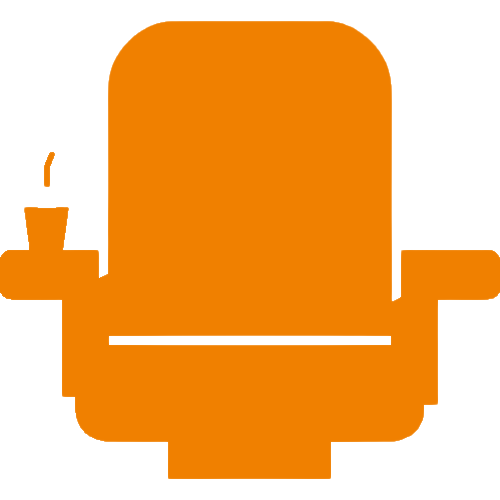
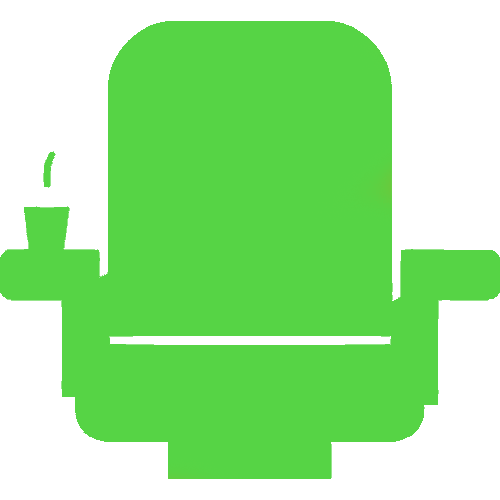
ajustes de diseño

diff --git a/src/screens/SeatSelectionScreen.tsx b/src/screens/SeatSelectionScreen.tsx
@@ -93,8 +93,8 @@ const SeatSelectionScreen: React.FC<Props> = ({ route, navigation }) => {
                   seat.estadoAsiento === 'ocupado' 
                     ? require('../assets/asientoRojo.png') 
                     : selectedSeats.includes(`${seat.filaAsiento}-${seat.numeroAsiento}`)
-                      ? require('../assets/asientoAnaranjado.png') 
-                      : require('../assets/asientoBlanco.png')
+                      ? require('../assets/asientoBlanco.png') 
+                      : require('../assets/asientoAnaranjado.png')
                 }
                 style={styles.seatImage}
               />
@@ -111,11 +111,11 @@ const SeatSelectionScreen: React.FC<Props> = ({ route, navigation }) => {
           <Text style={styles.legendText}>Apartado</Text>
         </View>
         <View style={styles.legendItem}>
-          <Image source={require('../assets/asientoAnaranjado.png')} style={styles.legendImage} />
+          <Image source={require('../assets/asientoBlanco.png')} style={styles.legendImage} />
           <Text style={styles.legendText}>Seleccionado</Text>
         </View>
         <View style={styles.legendItem}>
-          <Image source={require('../assets/asientoBlanco.png')} style={styles.legendImage} />
+          <Image source={require('../assets/asientoAnaranjado.png')} style={styles.legendImage} />
           <Text style={styles.legendText}>Disponible</Text>
         </View>
       </View>
@@ -214,7 +214,7 @@ const styles = StyleSheet.create({
   selectedSeatsText: {
     fontSize: 16,
     color: '#FFFFFF',
-    marginTop: 20,
+    marginTop: 80,
   },
   selectedSeatsList: {
     fontSize: 16,

diff --git a/src/screens/DulceriaScreen.tsx b/src/screens/DulceriaScreen.tsx
@@ -51,9 +51,9 @@ const DulceriaScreen = () => {
       <Image source={item.image} style={styles.productImage} />
       <Text style={styles.productName}>{item.name}</Text>
       <Text style={styles.productPrice}>${item.price}</Text>
-      <TouchableOpacity style={styles.addButton}>
+      {/* <TouchableOpacity style={styles.addButton}>
         <Text style={styles.addButtonText}>Añadir al carrito</Text>
-      </TouchableOpacity>
+      </TouchableOpacity>*/} 
     </View>
   );
 
@@ -78,6 +78,7 @@ const DulceriaScreen = () => {
         columnWrapperStyle={styles.row} // Estilo para la fila
         contentContainerStyle={styles.productsContainer}
       />
+      <Text style={styles.title}>¡¡¡Próximamente venta en la aplicación!!!</Text>
     </View>
   );
 };

diff --git a/src/screens/admin/AdminWelcomeScreen.tsx b/src/screens/admin/AdminWelcomeScreen.tsx
@@ -82,7 +82,6 @@ const AdminWelcomeScreen: React.FC<Props> = ({route}) => {
   return (
     <View style={styles.container}>
       <Text style={styles.welcomeText}>Bienvenido, {adminName}</Text>
-      <Text style={styles.subtitle}>Panel de Administración</Text>
 
       <View style={styles.buttonContainer}>
         <TouchableOpacity
@@ -136,7 +135,7 @@ const styles = StyleSheet.create({
     fontSize: 28,
     fontWeight: 'bold',
     color: '#FFFFFF',
-    marginBottom: 20,
+    marginBottom: 70,
     textAlign: 'center',
   },
   subtitle: {

diff --git a/src/screens/HomeScreen.tsx b/src/screens/HomeScreen.tsx
@@ -86,7 +86,6 @@ const HomeScreen: React.FC<Props> = ({ navigation }) => {
   return (
     <ScrollView contentContainerStyle={styles.container}>
       <View style={styles.menu}>
-        <Text style={styles.menuItem}>Inicio</Text>
         <TouchableOpacity onPress={() => navigation.navigate('Cartelera')}>
           <Text style={styles.menuItem}>Cartelera</Text>
         </TouchableOpacity>

diff --git a/src/screens/admin/SoporteScreen.tsx b/src/screens/admin/SoporteScreen.tsx
@@ -32,14 +32,14 @@ const SupportTeamScreen = () => {
 const styles = StyleSheet.create({
   container: {
     flex: 1,
-    backgroundColor: '#f0f0f0',
+    backgroundColor: '#2D3E50',
     padding: 20,
   },
   title: {
     fontSize: 28,
     fontWeight: 'bold',
     marginBottom: 30,
-    color: '#333',
+    color: 'white',
     textAlign: 'center',
   },
   memberContainer: {

diff --git a/src/screens/admin/ContactoMsjScreen.tsx b/src/screens/admin/ContactoMsjScreen.tsx
@@ -64,13 +64,13 @@ const styles = StyleSheet.create({
     textAlign: 'center',
   },
   messageItem: {
-    backgroundColor: '#1A252F',
+    backgroundColor: 'white',
     padding: 15,
     borderRadius: 8,
     marginBottom: 10,
   },
   messageText: {
-    color: '#FFFFFF',
+    color: 'black',
     fontSize: 16,
   },
   loading: {

diff --git a/src/screens/CarteleraScreen.tsx b/src/screens/CarteleraScreen.tsx
@@ -164,8 +164,8 @@ const styles = StyleSheet.create({
   },
   selectedSubmenuItem: {
     fontWeight: 'bold',
-    color: '#FF0000', // Cambia el color del texto a rojo
-    backgroundColor: '#41698A',
+    color: 'black', // Cambia el color del texto a rojo
+    backgroundColor: 'yellow',
     borderRadius: 5,
   },
   subtitle: {

diff --git a/src/screens/admin/LogsScreen.tsx b/src/screens/admin/LogsScreen.tsx
@@ -65,13 +65,13 @@ const styles = StyleSheet.create({
     textAlign: 'center',
   },
   logItem: {
-    backgroundColor: '#1A252F',
+    backgroundColor: 'white',
     padding: 15,
     borderRadius: 8,
     marginBottom: 10,
   },
   logText: {
-    color: '#FFFFFF',
+    color: 'black',
     fontSize: 16,
   },
   loading: {
